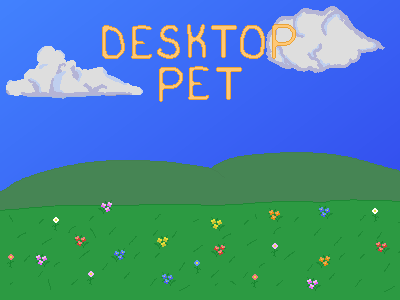
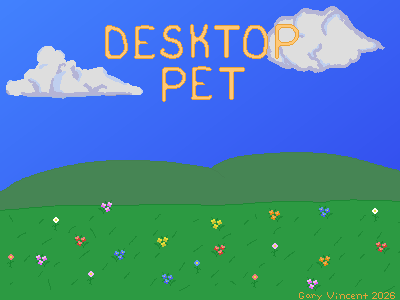
Ad pet selection background

Changed region(s): [[0.24, 0.06, 0.75, 0.36], [0.84, 0.96, 0.99, 1.0], [0.75, 0.96, 0.81, 1.0]]

diff --git a/src/screens/PetSelection.tsx b/src/screens/PetSelection.tsx
@@ -15,11 +15,9 @@ export default function PetSelection({
  }: PetSelectionProps) {
 
   return (
-    <div className="screen-page">
-      <div className="pet-selection-page">
-        <BackButton onClick={onBack}>←Back</BackButton>
-        <h1>Pets</h1>
-
+    <div className="screen-page pet-selection-page">
+      <BackButton onClick={onBack}>←Back</BackButton>
+      <h1>Pets</h1>
         <div className="pet-grid">
           {petDefinitions.map((pet) => (
             <PetCard
@@ -30,7 +28,6 @@ export default function PetSelection({
             />
           ))}
         </div>
-      </div>
     </div>
   );
 }

diff --git a/src/styles.css b/src/styles.css
@@ -194,7 +194,15 @@ canvas {
 
 .pet-selection-page {
   min-height: 100vh;
-  padding: clamp(16px, 4vw, 48px);
+  width: 100vw;
+
+  background-image: url("/assets/backgrounds/pet-selection-background.png");
+  background-size: 100% 100%;
+  background-position: center;
+  background-repeat: no-repeat;
+  image-rendering: pixelated;
+
+  box-sizing: border-box;
 }
 
 .pet-selection-content {

diff --git a/src/screens/Home.tsx b/src/screens/Home.tsx
@@ -1,5 +1,4 @@
 import { openOverlayWindow, closeOverlayWindow, hideCurrentWindow } from "../tauri/windows";
-import PixelPanel from "../ui/PixelPanel";
 import MenuButton from "../ui/MenuButton";
 
 type HomeProps = {
